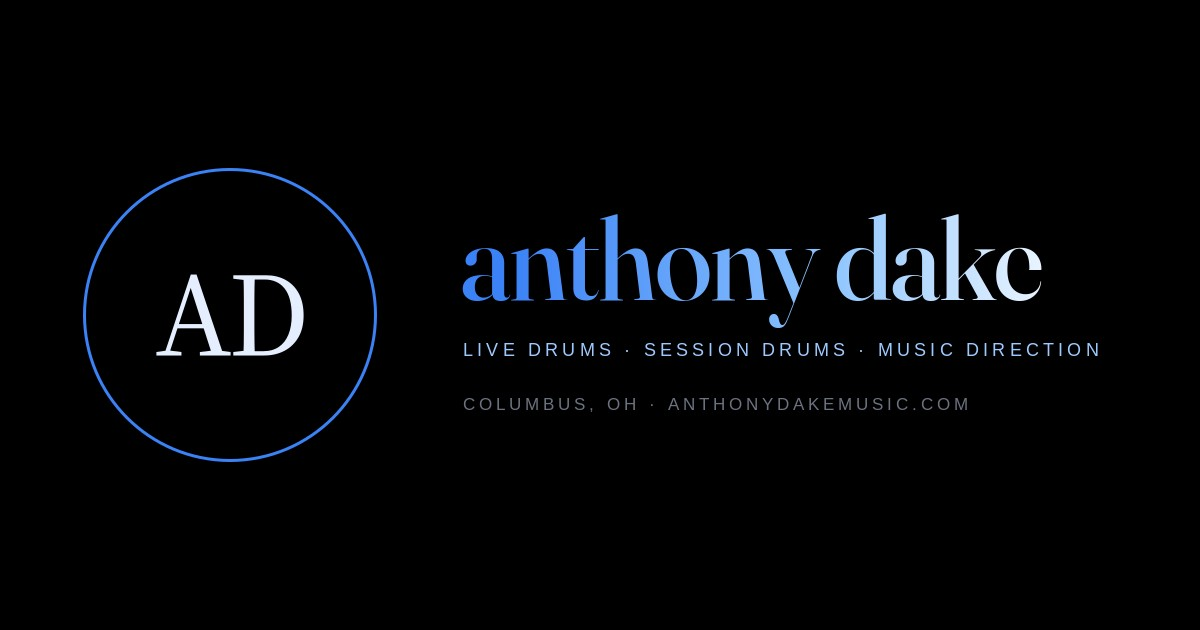
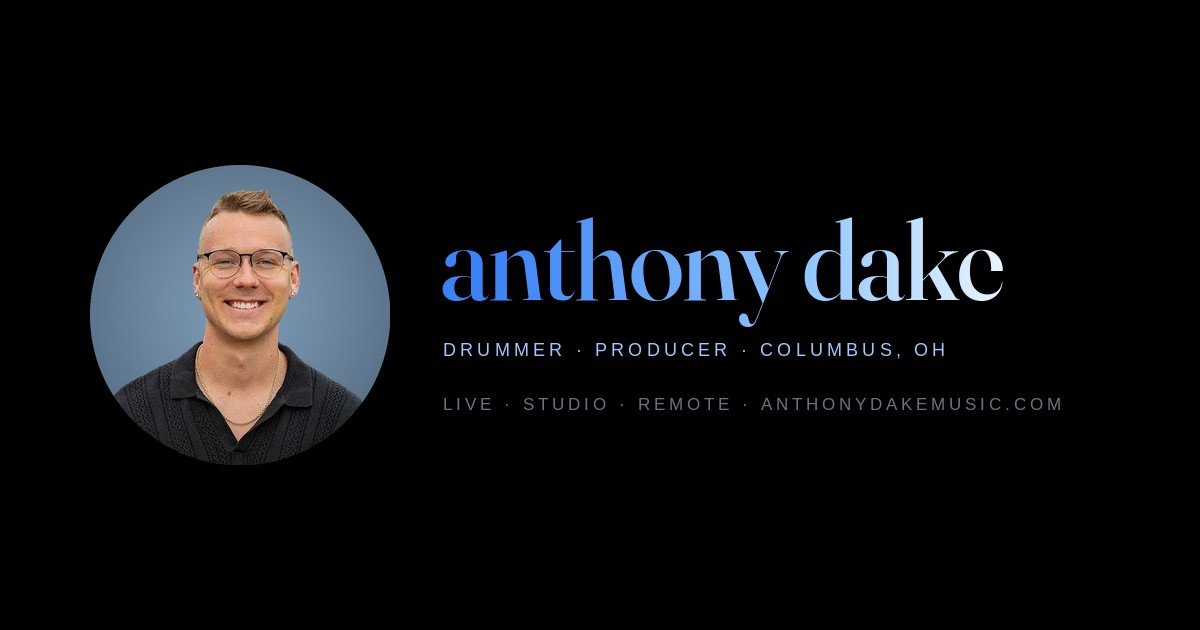
Home: real portrait, Drummer/Producer offers, résumé proof line

Changed region(s): [[0.0617, 0.2413, 0.3392, 0.754], [0.37, 0.3317, 0.925, 0.573], [0.37, 0.6333, 0.8942, 0.6635]]

diff --git a/app/components/HomeClient.tsx b/app/components/HomeClient.tsx
@@ -1,6 +1,7 @@
 "use client";
 
 import { useEffect, useMemo, useRef } from "react";
+import Image from "next/image";
 import Link from "next/link";
 import LogoArchitectOfSound from "./LogoArchitectOfSound";
 import FooterLine from "./FooterLine";
@@ -49,9 +50,17 @@ export default function HomeClient({
         data-id="hero"
         className="flex min-h-[88svh] flex-col items-center justify-center bg-black px-6 pt-14 pb-16 text-center"
       >
-        <LogoArchitectOfSound showPortrait={false} />
+        <Image
+          src="/portrait.jpg"
+          alt="Anthony Dake"
+          width={144}
+          height={144}
+          priority
+          className="rounded-full object-cover h-28 w-28 sm:h-36 sm:w-36 mx-auto mb-7"
+        />
+        <LogoArchitectOfSound />
         <p className="mx-auto mt-6 max-w-[28ch] text-[15px] leading-[1.6] text-[#9A9A9A] sm:text-[16px]">
-          Drummer and music director. Live, studio, remote. Columbus, OH.
+          Drummer and producer. Live, studio, remote. Columbus, OH.
         </p>
         <div className="mt-10">
           <button type="button" onClick={onOpenBooking} className="epk-cta">
@@ -68,16 +77,12 @@ export default function HomeClient({
         <h2 className="text-[15px] text-[#F2F2F2] mb-6">What I do</h2>
         <div className="space-y-5 text-[15px] leading-[1.6] text-[#9A9A9A] sm:text-[16px]">
           <p>
-            <strong className="font-normal text-[#F2F2F2]">Live performance</strong>
-            {" — tours, one-offs, festivals, sub work. Click, IEM, or acoustic."}
+            <strong className="font-normal text-[#F2F2F2]">Drummer</strong>
+            {" — live shows, tours, and fly dates; session drums remote or in your room. Click, IEM, acoustic and hybrid rigs."}
           </p>
           <p>
-            <strong className="font-normal text-[#F2F2F2]">Session drums</strong>
-            {" — remote from my room or in yours. 48-hour turnaround."}
-          </p>
-          <p>
-            <strong className="font-normal text-[#F2F2F2]">Music direction</strong>
-            {" — I build the band and run the room. Church, corporate, touring."}
+            <strong className="font-normal text-[#F2F2F2]">Producer</strong>
+            {" — drum programming and production for records. Remote, fast, release-ready stems."}
           </p>
         </div>
         <p className="mt-8">
@@ -102,6 +107,9 @@ export default function HomeClient({
         </p>
         <p className="mt-2 text-[15px] leading-[1.6] text-[#9A9A9A] sm:text-[16px]">
           {names}
+        </p>
+        <p className="mt-2 text-[15px] leading-[1.6] text-[#9A9A9A] sm:text-[16px]">
+          Columbus Pride · ComFest · Short North Stage · Shadowbox Live · Louis Pettinelli Entertainment · Bluecoats · Rhythm X · Blue Knights
         </p>
         <p className="mt-8 flex flex-wrap gap-x-6 gap-y-2 text-[15px] text-[#F2F2F2]">
           <Link href="/placements" className="hover:text-[#9A9A9A] transition-colors">

diff --git a/app/components/LogoArchitectOfSound.tsx b/app/components/LogoArchitectOfSound.tsx
@@ -1,32 +1,12 @@
 "use client";
 
-import Image from "next/image";
-
-type Props = {
-  showPortrait?: boolean;
-};
-
 // Hero name lockup. Fraunces 300 with the one allowed gradient per page
-// (`.grad`). Portrait is opt-out (on by default for the standalone use,
-// off in the hero where the hero no longer carries a photo).
-export default function LogoArchitectOfSound({ showPortrait = true }: Props) {
+// (`.grad`). The hero portrait (when shown) is rendered by the caller
+// directly above this component.
+export default function LogoArchitectOfSound() {
   return (
     <div className="relative inline-flex w-full max-w-[640px] lg:max-w-[820px] xl:max-w-[960px] flex-col items-center justify-center">
       <div className="flex flex-col items-center justify-center text-center">
-        {showPortrait && (
-          <div className="mb-8 sm:mb-10 mx-auto h-[150px] w-[150px] sm:h-[170px] sm:w-[170px] md:h-[190px] md:w-[190px] lg:h-[220px] lg:w-[220px] xl:h-[240px] xl:w-[240px] overflow-hidden rounded-full">
-            <Image
-              src="/anthony-dake-drums.jpg"
-              alt="Anthony Dake — session drummer based in Columbus, Ohio"
-              width={240}
-              height={240}
-              priority
-              sizes="(max-width: 640px) 150px, (max-width: 768px) 170px, (max-width: 1024px) 190px, (max-width: 1280px) 220px, 240px"
-              className="h-full w-full object-cover"
-            />
-          </div>
-        )}
-
         <h1 className="grad font-serif-display text-[36px] sm:text-[48px] md:text-[58px] tracking-[-0.02em] leading-tight">
           anthony dake
         </h1>
